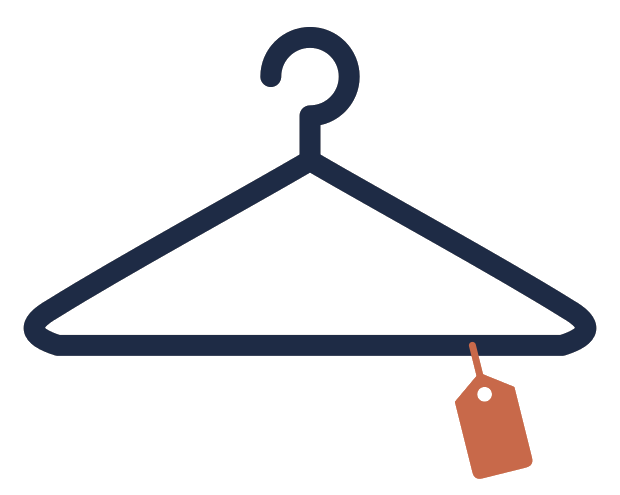
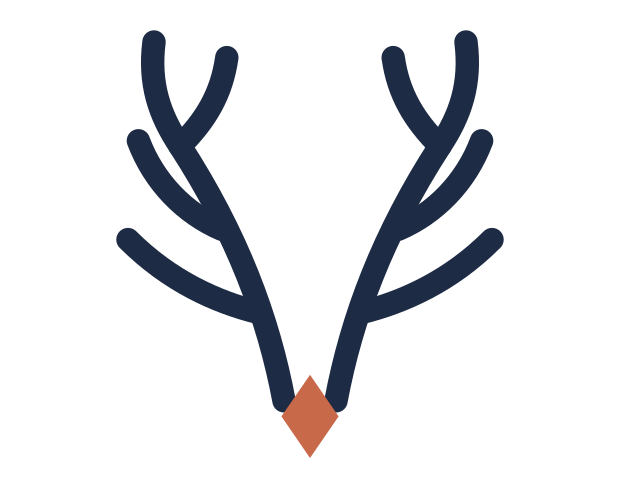
Nowa nazwa: CERVO boutique (@cervoboutique_)
- nazwa w tytule, opisach dla Google i Facebooka, logo, stopce, panelu,
  regulaminie, polityce prywatności, manifeście i komentarzach
- nowe logo, ikony i poroże jelenia zamiast wieszaka (te same nazwy plików)
- strona główna: „Markowe ubrania. Prawdziwie dobre.”
- Instagram: cervoboutique_ (TikTok i e-mail bez zmian)
- przekierowanie z prawienowe.pages.dev na cervoboutique.pages.dev
  (ta sama ścieżka i #), dopiero gdy nowy adres działa

Claude-Session: https://claude.ai/code/session_01XFuGxUfgUcUzutrSkBew6P

Changed region(s): [[0.0306, 0.0303, 0.9806, 0.9697]]

diff --git a/strona/index.html b/strona/index.html
@@ -3,14 +3,14 @@
 <head>
 <meta charset="utf-8">
 <meta name="viewport" content="width=device-width, initial-scale=1, viewport-fit=cover">
-<title>Prawie Nowe by Kuba – markowe ubrania nowe i z drugiej ręki</title>
+<title>CERVO boutique – markowe ubrania nowe i z drugiej ręki</title>
 <meta name="description" content="Markowe ubrania nowe i używane w bardzo dobrym stanie. Każda rzecz w jednym egzemplarzu, z wymiarami w cm i uczciwie opisanymi wadami. Zamówienia przez WhatsApp i Instagram.">
 <meta name="theme-color" content="#1e2b45">
 <link rel="icon" href="favicon.ico" sizes="any">
 <link rel="icon" type="image/png" sizes="32x32" href="favicon-32.png">
 <link rel="apple-touch-icon" href="img/brand/apple-touch-icon.png">
 <link rel="manifest" href="site.webmanifest">
-<meta property="og:title" content="Prawie Nowe by Kuba">
+<meta property="og:title" content="CERVO boutique">
 <meta property="og:description" content="Markowe ubrania nowe i z drugiej ręki. Każda rzecz w jednym egzemplarzu.">
 <meta property="og:image" content="img/brand/icon-512.png">
 <link rel="preconnect" href="https://fonts.googleapis.com">
@@ -33,7 +33,7 @@
       <a href="#kategorie">Kategorie</a>
       <a href="#jak-kupic">Jak kupić</a>
     </nav>
-    <a href="#/" class="logo" aria-label="Prawie Nowe by Kuba – strona główna"><img src="img/brand/logo-320.png" alt="Prawie Nowe by Kuba" width="320" height="320"></a>
+    <a href="#/" class="logo" aria-label="CERVO boutique – strona główna"><img src="img/brand/logo-320.png" alt="CERVO boutique" width="320" height="320"></a>
     <div class="tools">
       <a class="tool" data-ig href="#" target="_blank" rel="noopener" aria-label="Instagram">
         <svg viewBox="0 0 24 24" width="20" height="20" fill="none" stroke="currentColor" stroke-width="1.3"><rect x="3.5" y="3.5" width="17" height="17" rx="5"/><circle cx="12" cy="12" r="4"/><circle cx="17.2" cy="6.8" r=".6" fill="currentColor"/></svg>
@@ -54,8 +54,8 @@
   <section class="hero" aria-label="Wyróżnione rzeczy">
     <div class="wrap hero__in">
       <div>
-        <p class="eyebrow">Markowe ubrania · Jelenia Góra</p>
-        <h1>Prawie nowe. <em>Prawdziwie dobre.</em></h1>
+        <p class="eyebrow">Markowe ubrania</p>
+        <h1>Markowe ubrania. <em>Prawdziwie dobre.</em></h1>
         <p class="lead">Markowe ubrania nowe i z drugiej ręki. Każda rzecz w jednym egzemplarzu, z wymiarami w cm i uczciwie opisanymi wadami.</p>
         <div class="hero__cta">
           <a href="#/kolekcja" class="btn btn--dark">Zobacz kolekcję</a>
@@ -227,7 +227,7 @@
 <footer class="footer">
   <div class="wrap footer__grid">
     <div>
-      <a href="#/" class="footer__logo" aria-label="Prawie Nowe by Kuba"><img src="img/brand/logo-320.png" alt="Prawie Nowe by Kuba" width="320" height="320"></a>
+      <a href="#/" class="footer__logo" aria-label="CERVO boutique"><img src="img/brand/logo-320.png" alt="CERVO boutique" width="320" height="320"></a>
       <p class="footer__about">Markowe ubrania nowe i z drugiej ręki. Każda rzecz sprawdzona, zmierzona i opisana.</p>
     </div>
     <div>
@@ -242,13 +242,13 @@
       <h4>Kontakt</h4>
       <a data-mail href="#">prawienowebykuba@gmail.com</a>
       <a data-wa href="#" target="_blank" rel="noopener">WhatsApp 570 005 150</a>
-      <a data-ig href="#" target="_blank" rel="noopener">Instagram @prawienowebykuba</a>
+      <a data-ig href="#" target="_blank" rel="noopener">Instagram @cervoboutique_</a>
       <a data-tt href="#" target="_blank" rel="noopener">TikTok @prawienowebykuba</a>
       <span>Jelenia Góra</span>
     </div>
   </div>
   <div class="wrap footer__bottom">
-    <span>© <span id="year"></span> Prawie Nowe by Kuba</span>
+    <span>© <span id="year"></span> CERVO boutique</span>
     <span>Nazwy marek należą do ich właścicieli. Nie jestem autoryzowanym dystrybutorem.</span>
   </div>
 </footer>

diff --git a/strona/regulamin.html b/strona/regulamin.html
@@ -3,7 +3,7 @@
 <head>
 <meta charset="utf-8">
 <meta name="viewport" content="width=device-width, initial-scale=1, viewport-fit=cover">
-<title>Regulamin – Prawie Nowe by Kuba</title>
+<title>Regulamin – CERVO boutique</title>
 <meta name="theme-color" content="#1e2b45">
 <link rel="icon" href="favicon.ico" sizes="any">
 <link rel="icon" type="image/png" sizes="32x32" href="favicon-32.png">
@@ -18,7 +18,7 @@
 <header class="header header--doc">
   <div class="header__in">
     <nav class="nav nav--doc" aria-label="Nawigacja"><a href="index.html#/kolekcja">Kolekcja</a><a href="regulamin.html">Regulamin</a><a href="prywatnosc.html">Prywatność</a></nav>
-    <a href="index.html" class="logo" aria-label="Prawie Nowe by Kuba – strona główna"><img src="img/brand/logo-320.png" alt="Prawie Nowe by Kuba" width="320" height="320"></a>
+    <a href="index.html" class="logo" aria-label="CERVO boutique – strona główna"><img src="img/brand/logo-320.png" alt="CERVO boutique" width="320" height="320"></a>
     <div class="tools"><a class="tool" href="index.html#/kolekcja" aria-label="Wróć do sklepu"><svg viewBox="0 0 24 24" width="21" height="21" fill="none" stroke="currentColor" stroke-width="1.3"><path d="M5.5 8.5h13l-1 11h-11z"/><path d="M9 8.5V7a3 3 0 0 1 6 0v1.5"/></svg></a></div>
   </div>
 </header>
@@ -29,9 +29,9 @@
 
   <h2>§1. Sprzedawca</h2>
   <ol>
-    <li>Sprzedawcą jest Jakub Sroczyński, prowadzący działalność nierejestrowaną, o której mowa w art. 5 ust. 1 ustawy Prawo przedsiębiorców, pod nazwą „Prawie Nowe by Kuba".</li>
+    <li>Sprzedawcą jest Jakub Sroczyński, prowadzący działalność nierejestrowaną, o której mowa w art. 5 ust. 1 ustawy Prawo przedsiębiorców, pod nazwą „CERVO boutique”.</li>
     <li>Adres do korespondencji i zwrotów: ul. Lawendowa 21, 58-500 Jelenia Góra.</li>
-    <li>Kontakt: e-mail <a href="mailto:prawienowebykuba@gmail.com">prawienowebykuba@gmail.com</a>, telefon i WhatsApp 570 005 150, Instagram <a href="https://www.instagram.com/prawienowebykuba/" target="_blank" rel="noopener">@prawienowebykuba</a>.</li>
+    <li>Kontakt: e-mail <a href="mailto:prawienowebykuba@gmail.com">prawienowebykuba@gmail.com</a>, telefon i WhatsApp 570 005 150, Instagram <a href="https://www.instagram.com/cervoboutique_/" target="_blank" rel="noopener">@cervoboutique_</a>.</li>
   </ol>
 
   <h2>§2. Jak działa sklep</h2>
@@ -84,7 +84,7 @@
 
   <h2>Wzór formularza odstąpienia od umowy</h2>
   <div class="form">
-    <p>Adresat: Jakub Sroczyński, Prawie Nowe by Kuba, ul. Lawendowa 21, 58-500 Jelenia Góra, prawienowebykuba@gmail.com</p>
+    <p>Adresat: Jakub Sroczyński, CERVO boutique, ul. Lawendowa 21, 58-500 Jelenia Góra, prawienowebykuba@gmail.com</p>
     <p>Ja, niżej podpisany(a), niniejszym informuję o moim odstąpieniu od umowy sprzedaży następującej rzeczy: ………………… (kod rzeczy, np. PN001)</p>
     <p>Data otrzymania rzeczy: …………………</p>
     <p>Imię i nazwisko: …………………</p>
@@ -96,7 +96,7 @@
 
 <footer class="footer">
   <div class="wrap footer__bottom" style="margin-top:0;border-top:0;padding-top:0">
-    <span>© 2026 Prawie Nowe by Kuba · Jakub Sroczyński, ul. Lawendowa 21, 58-500 Jelenia Góra · prawienowebykuba@gmail.com</span>
+    <span>© 2026 CERVO boutique · Jakub Sroczyński, ul. Lawendowa 21, 58-500 Jelenia Góra · prawienowebykuba@gmail.com</span>
     <span><a href="index.html">Sklep</a> · <a href="regulamin.html">Regulamin</a> · <a href="prywatnosc.html">Prywatność</a></span>
   </div>
 </footer>

diff --git a/strona/prywatnosc.html b/strona/prywatnosc.html
@@ -3,7 +3,7 @@
 <head>
 <meta charset="utf-8">
 <meta name="viewport" content="width=device-width, initial-scale=1, viewport-fit=cover">
-<title>Prywatność – Prawie Nowe by Kuba</title>
+<title>Prywatność – CERVO boutique</title>
 <meta name="theme-color" content="#1e2b45">
 <link rel="icon" href="favicon.ico" sizes="any">
 <link rel="icon" type="image/png" sizes="32x32" href="favicon-32.png">
@@ -18,7 +18,7 @@
 <header class="header header--doc">
   <div class="header__in">
     <nav class="nav nav--doc" aria-label="Nawigacja"><a href="index.html#/kolekcja">Kolekcja</a><a href="regulamin.html">Regulamin</a><a href="prywatnosc.html">Prywatność</a></nav>
-    <a href="index.html" class="logo" aria-label="Prawie Nowe by Kuba – strona główna"><img src="img/brand/logo-320.png" alt="Prawie Nowe by Kuba" width="320" height="320"></a>
+    <a href="index.html" class="logo" aria-label="CERVO boutique – strona główna"><img src="img/brand/logo-320.png" alt="CERVO boutique" width="320" height="320"></a>
     <div class="tools"><a class="tool" href="index.html#/kolekcja" aria-label="Wróć do sklepu"><svg viewBox="0 0 24 24" width="21" height="21" fill="none" stroke="currentColor" stroke-width="1.3"><path d="M5.5 8.5h13l-1 11h-11z"/><path d="M9 8.5V7a3 3 0 0 1 6 0v1.5"/></svg></a></div>
   </div>
 </header>
@@ -27,7 +27,7 @@
   <h1>Polityka prywatności</h1>
 
   <h2>Kto przetwarza Twoje dane</h2>
-  <p>Administratorem danych jest Jakub Sroczyński, „Prawie Nowe by Kuba", ul. Lawendowa 21, 58-500 Jelenia Góra, e-mail <a href="mailto:prawienowebykuba@gmail.com">prawienowebykuba@gmail.com</a>.</p>
+  <p>Administratorem danych jest Jakub Sroczyński, „CERVO boutique”, ul. Lawendowa 21, 58-500 Jelenia Góra, e-mail <a href="mailto:prawienowebykuba@gmail.com">prawienowebykuba@gmail.com</a>.</p>
 
   <h2>Jakie dane i po co</h2>
   <ul>
@@ -58,7 +58,7 @@
 
 <footer class="footer">
   <div class="wrap footer__bottom" style="margin-top:0;border-top:0;padding-top:0">
-    <span>© 2026 Prawie Nowe by Kuba · Jakub Sroczyński, ul. Lawendowa 21, 58-500 Jelenia Góra · prawienowebykuba@gmail.com</span>
+    <span>© 2026 CERVO boutique · Jakub Sroczyński, ul. Lawendowa 21, 58-500 Jelenia Góra · prawienowebykuba@gmail.com</span>
     <span><a href="index.html">Sklep</a> · <a href="regulamin.html">Regulamin</a> · <a href="prywatnosc.html">Prywatność</a></span>
   </div>
 </footer>

diff --git a/strona/app.js b/strona/app.js
@@ -1,4 +1,16 @@
-/* Prawie Nowe by Kuba – logika sklepu. Dane rzeczy są w produkty.js. */
+/* CERVO boutique – logika sklepu. Dane rzeczy są w produkty.js. */
+
+/* Stary adres: prawienowe.pages.dev → cervoboutique.pages.dev, z tą samą ścieżką i # (np. #PN004).
+   Przenosi dopiero wtedy, gdy nowy adres działa (wczytuje się z niego ikona sklepu),
+   więc dopóki projekt „cervoboutique” w Cloudflare nie istnieje, stara strona działa jak dawniej. */
+(function () {
+  var NOWY = 'https://cervoboutique.pages.dev';
+  if (location.hostname !== 'prawienowe.pages.dev') return;
+  var test = new Image();
+  test.onload = function () { location.replace(NOWY + location.pathname + location.search + location.hash); };
+  test.src = NOWY + '/img/brand/icon-192.png?t=' + Date.now();
+})();
+
 (function () {
   'use strict';
 
@@ -115,7 +127,7 @@
     $('#newGrid').innerHTML = newest(available).slice(0, 4).map(cardHTML).join('');
     $('#catGrid').style.setProperty('--cats', CATS.length <= 6 ? Math.max(CATS.length, 4) : Math.min(Math.ceil(CATS.length / 2), 6));
     $('#catGrid').innerHTML = CATS.map(function (c) {
-      // kafelek z samym napisem: wieszak z metką, nazwa kategorii kursywą, liczba rzeczy
+      // kafelek z samym napisem: poroże z logo, nazwa kategorii kursywą, liczba rzeczy
       var n = P.filter(function (p) { return inCat(p, c) && !p.sprzedane; }).length;
       return '<a class="cat" href="#/kolekcja/kat/' + encodeURIComponent(c) + '"><div class="cat__tile">' +
         '<img class="cat__tag" src="img/brand/wieszak.png" alt="" width="52" height="42">' +

diff --git a/strona/produkty.js b/strona/produkty.js
@@ -1,8 +1,8 @@
 /* ================================================================
-   PRAWIE NOWE BY KUBA – dane sklepu
+   CERVO BOUTIQUE – dane sklepu
    To jedyny plik, który zmieniasz przy dodawaniu i sprzedawaniu rzeczy.
 
-   Sprzedane i ceny najprościej zmieniać w panelu: prawienowe.pages.dev/admin.html
+   Sprzedane i ceny najprościej zmieniać w panelu: cervoboutique.pages.dev/admin.html
    (cenaPrzed = przekreślona cena przy rabacie, historiaCen = daty zmian cen; uzupełnia je panel)
    Sprzedane:  zmień  sprzedane: false  na  sprzedane: true
    Nowa rzecz: skopiuj cały blok { ... } jednej rzeczy, nadaj kolejny kod
@@ -11,7 +11,7 @@
    ================================================================ */
 
 window.SKLEP = {
-  instagram: "prawienowebykuba",          // nazwa konta na Instagramie (bez @)
+  instagram: "cervoboutique_",            // nazwa konta na Instagramie (bez @)
   whatsapp: "48570005150",               // numer WhatsApp z kierunkowym 48, bez spacji i plusa
   tiktok: "prawienowebykuba",
   email: "prawienowebykuba@gmail.com",

diff --git a/strona/admin.html b/strona/admin.html
@@ -4,7 +4,7 @@
 <meta charset="utf-8">
 <meta name="viewport" content="width=device-width, initial-scale=1, viewport-fit=cover">
 <meta name="robots" content="noindex, nofollow">
-<title>Panel – Prawie Nowe by Kuba</title>
+<title>Panel – CERVO boutique</title>
 <link rel="icon" href="favicon-32.png">
 <link rel="apple-touch-icon" href="img/brand/apple-touch-icon.png">
 <link rel="preconnect" href="https://fonts.googleapis.com">

diff --git a/strona/style.css b/strona/style.css
@@ -1,4 +1,4 @@
-/* Prawie Nowe by Kuba – styl na wzór ÉCRIN, w kolorach logo: granat, terakota, krem.
+/* CERVO boutique – styl na wzór ÉCRIN, w kolorach logo: granat, terakota, krem.
    Układ: pasek informacyjny, nagłówek z logo na środku, hero ze zdjęciami, siatka 4/5, granatowa stopka. */
 :root{
   --ink:#1e2b45;          /* granat z logo */

diff --git a/README-sklep.md b/README-sklep.md
@@ -1,4 +1,4 @@
-# Strona sklepu „Prawie Nowe by Kuba"
+# Strona sklepu „CERVO boutique”
 
 Statyczna strona-katalog w folderze `strona/`, hostowana na Cloudflare Pages
 (gałąź produkcyjna: `sklep`, katalog wyjściowy: `strona`, bez komendy budowania).
@@ -6,6 +6,6 @@ Każdy push na gałąź `sklep` publikuje stronę automatycznie.
 
 - Rzeczy, ceny i statusy: `strona/produkty.js` (sprzedane: `sprzedane: true`).
 - Zdjęcia: `strona/img/pN/` – `01.jpg` przód, kolejne numery, `thumb.jpg` miniatura (max 1400 px, bez EXIF/GPS).
-- Zamówienia przez Instagram @prawienowebykuba (przycisk kopiuje wiadomość z kodem PNxxx).
+- Zamówienia przez Instagram @cervoboutique_ (przycisk kopiuje wiadomość z kodem PNxxx).
 - Regulamin i polityka prywatności: `strona/regulamin.html`, `strona/prywatnosc.html`.
 - Przy każdej rzeczy w `produkty.js` komentarz „DO SPRAWDZENIA” = dane niepotwierdzone, nie pokazywać ich na stronie jako pewnych.
